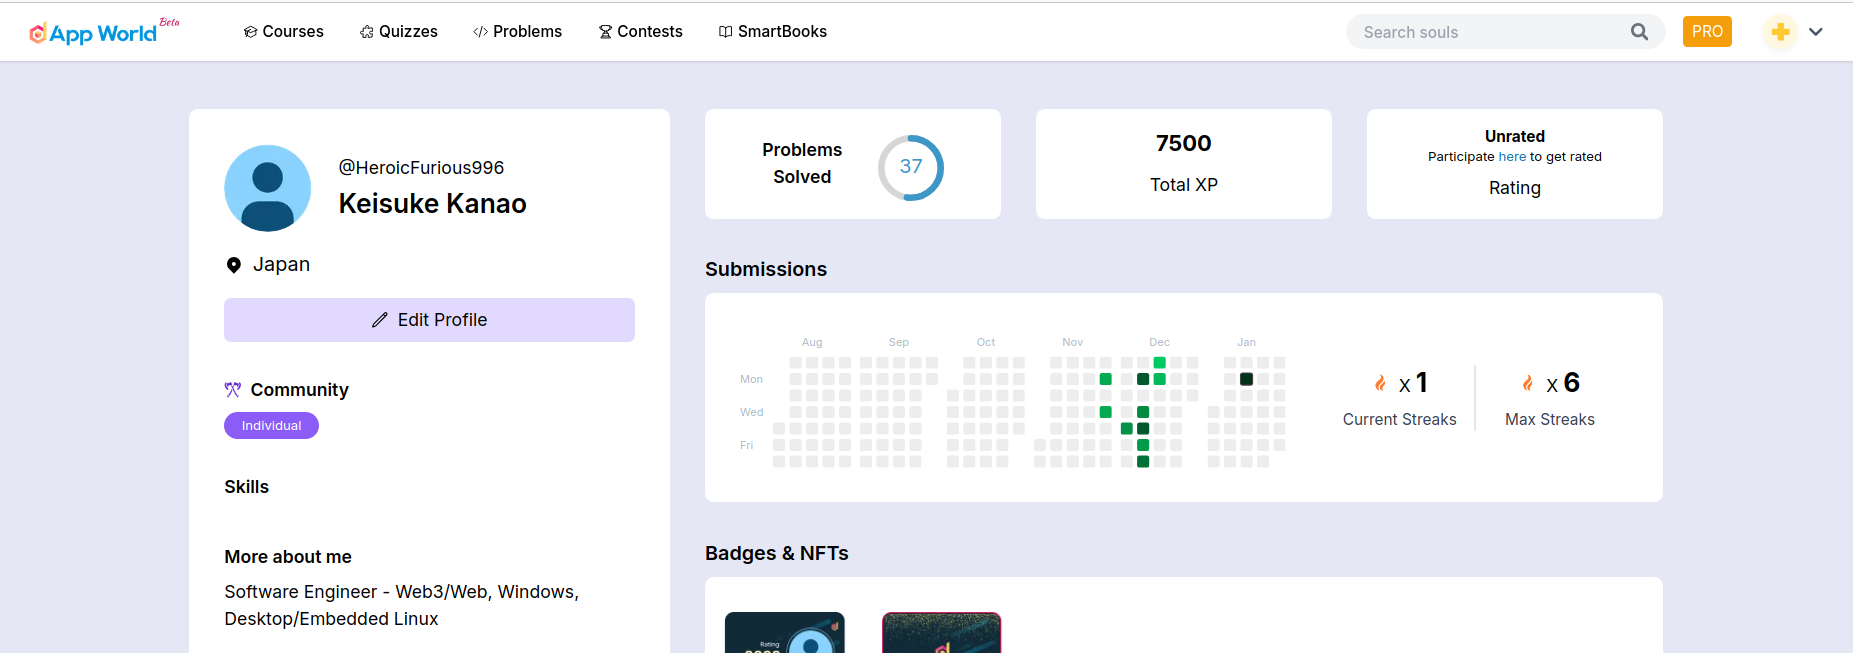
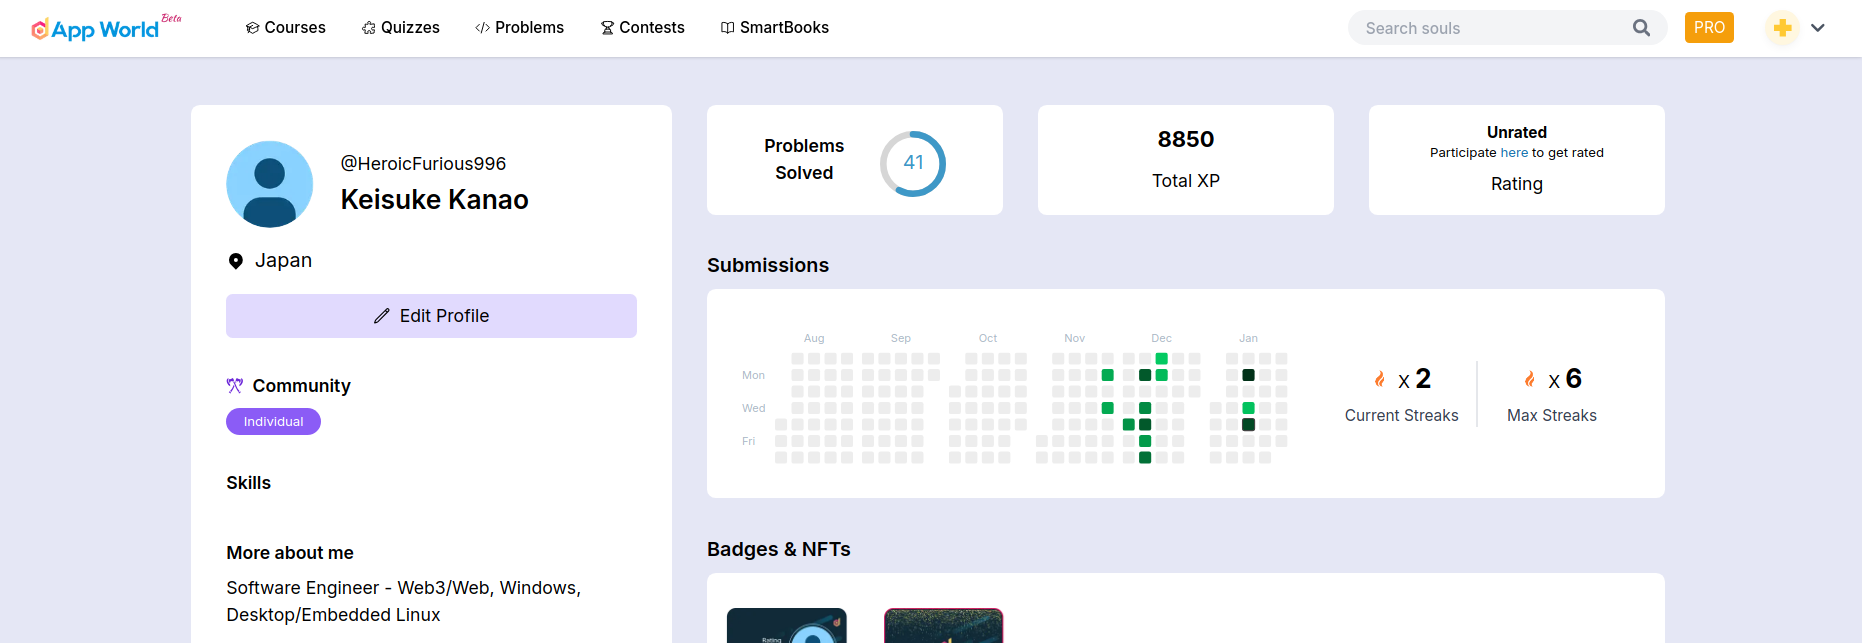
Update the progress state

diff --git a/README.md b/README.md
@@ -2,7 +2,7 @@
 I've been practicing Solidity programming by solving [problems from DApp World](https://dapp-world.com/problems).
 
 ## Number of solved problems  
-As of now (13 Jan 2025), I solved 38 out of 59 problems, however, the site shows 37 for unknown reasons. 
+As of now (16 Jan 2025), I solved 42 out of 59 problems, however, the site shows 41 for unknown reasons. 
   
 ![](./number-of-solved-problems.png)
 
@@ -49,3 +49,7 @@ Below is the list of solved problmes in chronological order.
 |[37.DAO Membership - Hard](https://dapp-world.com/problem/dao-membership-hard/problem)|13 Jan 2025 16:42:22||
 |[41.Shipment Service (easy)](https://dapp-world.com/problem/shipment-service-easy/problem)|13 Jan 2025 18:44:03||
 |[40.Shipment Service (hard)](https://dapp-world.com/problem/shipment-service-hard/problem)|13 Jan 2025 19:17:19||
+|[44.Scholarship Credit System - Easy](https://dapp-world.com/problem/scholarship-credit-system-easy-LJgj/problem)|15 Jan 2025 16:19:07||
+|[43.Scholarship Credit System - Hard](https://dapp-world.com/problem/scholarship-credit-system-hard-LFgj/problem)|16 Jan 2025 06:25:38||
+|[8.DAO Voting](https://dapp-world.com/problem/dao-voting/problem)|16 Jan 2025 13:46:16|Needed some trials and errors to clarify edge conditions and handle them appropriately.|
+|[26.Automatic Lottery System - Easy](https://dapp-world.com/problem/lottery-problem/problem)|16 Jan 2025 14:06:24||
